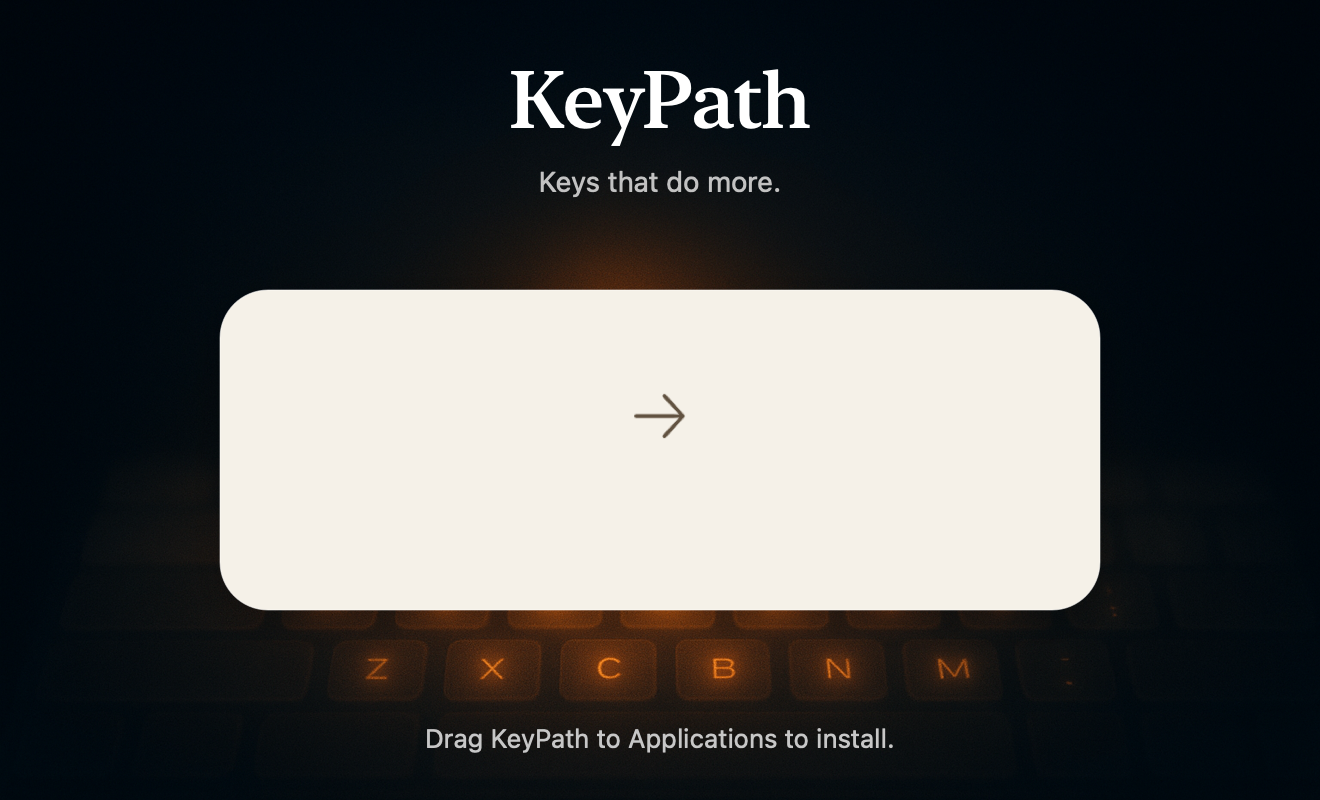
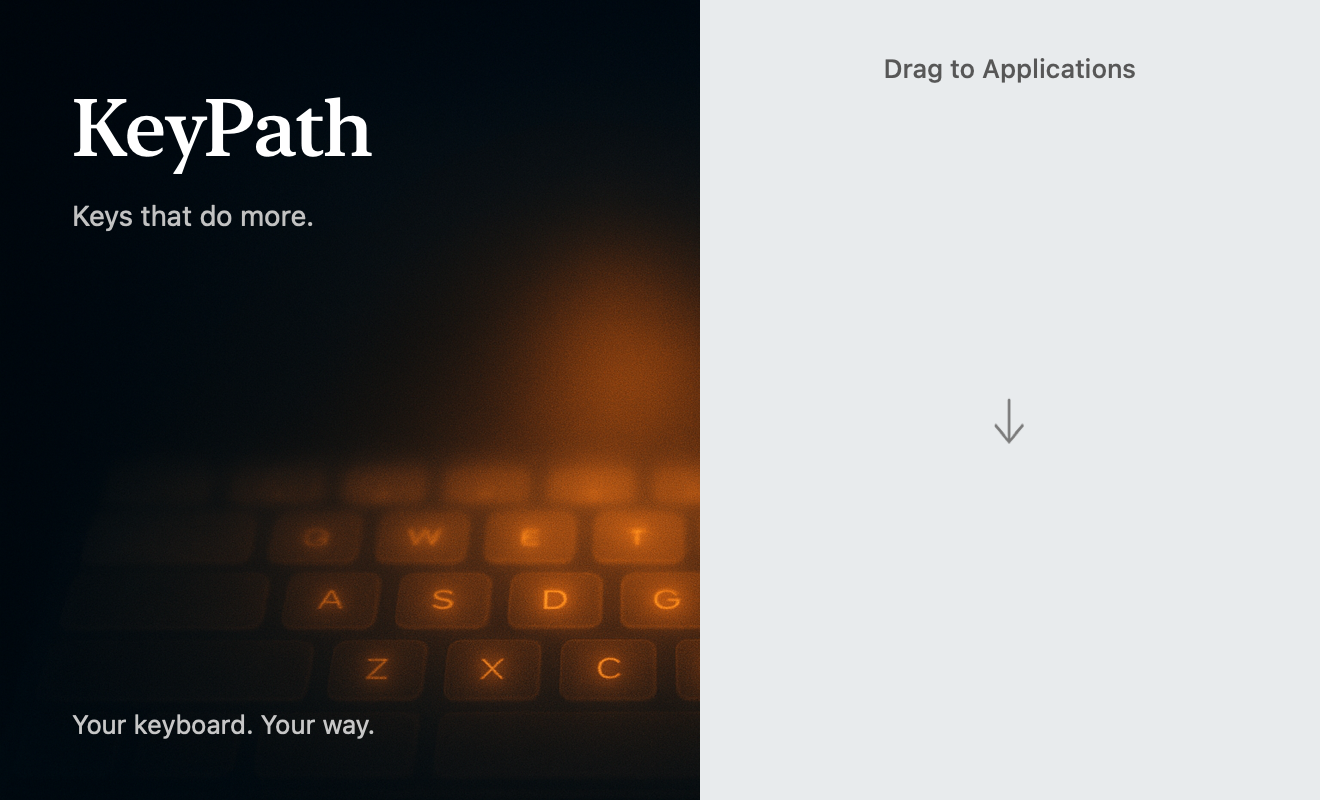
design: give installer artwork an unobstructed brand panel

diff --git a/dev-tools/dmg/render-background.swift b/dev-tools/dmg/render-background.swift
@@ -12,44 +12,39 @@ NSGraphicsContext.saveGraphicsState()
 NSGraphicsContext.current = NSGraphicsContext(bitmapImageRep: bitmap)
 let artwork = NSImage(contentsOf: directory.appendingPathComponent("dmg-bg-keyboard-legends.png"))!
 artwork.draw(in: NSRect(origin: .zero, size: size))
-// One shared installation surface supports the drag gesture and keeps
-// Finder's mandatory dark filenames readable, without button-like label pills.
-let stage = NSRect(x: 110, y: 400 - 145 - 160, width: 440, height: 160)
-let surface = NSBezierPath(roundedRect: stage, xRadius: 24, yRadius: 24)
-NSGraphicsContext.saveGraphicsState()
-let shadow = NSShadow()
-shadow.shadowColor = NSColor.black.withAlphaComponent(0.24)
-shadow.shadowBlurRadius = 22
-shadow.shadowOffset = NSSize(width: 0, height: -6)
-shadow.set()
-NSColor(red: 0.96, green: 0.945, blue: 0.91, alpha: 1).setFill()
-surface.fill()
-NSGraphicsContext.restoreGraphicsState()
-NSColor.white.withAlphaComponent(0.55).setStroke()
-surface.lineWidth = 0.5
-surface.stroke()
+// A full-height installation column keeps native Finder labels legible while
+// preserving the brand artwork as an unobstructed hero on the left.
+NSColor(red: 0.91, green: 0.92, blue: 0.93, alpha: 1).setFill()
+NSRect(x: 350, y: 0, width: 310, height: 400).fill()
 func label(_ text: String, y: CGFloat, height: CGFloat, font: NSFont, color: NSColor) {
     let paragraph = NSMutableParagraphStyle()
-    paragraph.alignment = .center
-    (text as NSString).draw(in: NSRect(x: 24, y: 400-y-height, width: 612, height: height),
+    paragraph.alignment = .left
+    (text as NSString).draw(in: NSRect(x: 36, y: 400-y-height, width: 290, height: height),
                            withAttributes: [.font: font, .foregroundColor: color, .paragraphStyle: paragraph])
 }
 let serif = NSFont.systemFont(ofSize: 40, weight: .medium).fontDescriptor.withDesign(.serif)!
-label("KeyPath", y: 26, height: 54, font: NSFont(descriptor: serif, size: 40)!, color: .white)
-label("Keys that do more.", y: 82, height: 24,
+label("KeyPath", y: 40, height: 54, font: NSFont(descriptor: serif, size: 40)!, color: .white)
+label("Keys that do more.", y: 99, height: 24,
       font: .systemFont(ofSize: 14, weight: .regular),
       color: NSColor(white: 0.76, alpha: 1))
-if let arrow = NSImage(systemSymbolName: "arrow.right", accessibilityDescription: nil)?
-    .withSymbolConfiguration(.init(pointSize: 26, weight: .light)) {
+if let arrow = NSImage(systemSymbolName: "arrow.down", accessibilityDescription: nil)?
+    .withSymbolConfiguration(.init(pointSize: 22, weight: .light)) {
     let tinted = NSImage(size: arrow.size)
     tinted.lockFocus()
-    NSColor(red: 0.38, green: 0.32, blue: 0.25, alpha: 1).setFill()
+    NSColor(white: 0.48, alpha: 1).setFill()
     NSRect(origin: .zero, size: arrow.size).fill()
     arrow.draw(at: .zero, from: .zero, operation: .destinationIn, fraction: 1)
     tinted.unlockFocus()
-    tinted.draw(in: NSRect(x: 314, y: 400-208-14, width: 32, height: 28))
+    tinted.draw(in: NSRect(x: 495, y: 400-210-14, width: 20, height: 28))
 }
-label("Drag KeyPath to Applications to install.", y: 361, height: 24,
+label("Your keyboard. Your way.", y: 354, height: 24,
       font: .systemFont(ofSize: 13, weight: .regular), color: NSColor(white: 0.78, alpha: 1))
+let instructionStyle = NSMutableParagraphStyle()
+instructionStyle.alignment = .center
+("Drag to Applications" as NSString).draw(
+    in: NSRect(x: 365, y: 352, width: 280, height: 22),
+    withAttributes: [.font: NSFont.systemFont(ofSize: 13, weight: .medium),
+                     .foregroundColor: NSColor(white: 0.34, alpha: 1),
+                     .paragraphStyle: instructionStyle])
 NSGraphicsContext.restoreGraphicsState()
 try bitmap.representation(using: .png, properties: [:])!.write(to: directory.appendingPathComponent("installer-branded@2x.png"))

diff --git a/dev-tools/dmg/dmgbuild-settings.py b/dev-tools/dmg/dmgbuild-settings.py
@@ -22,6 +22,6 @@ symlinks = {"Applications": "/Applications"}
 hide_extensions = []
 
 icon_locations = {
-    os.path.basename(APP_PATH): (205, 208),
-    "Applications": (455, 208),
+    os.path.basename(APP_PATH): (505, 112),
+    "Applications": (505, 288),
 }

diff --git a/docs/testing/driverless-release-signoff.md b/docs/testing/driverless-release-signoff.md
@@ -522,3 +522,16 @@ stapling/Gatekeeper passed, and source/remote SHA-256 matched on delivery to Air
 Downloads: `KeyPath-20261018-polished-installer.dmg`, hash
[1 lines of base64/hex data omitted]
 No app reinstall was performed for this presentation-only change.
+
+### Installer design revision — 2026-10-18
+
+User rejected the cream card layout. Replaced it with a split composition: historical
+KeyPath wordmark, tagline and amber keyboard on the left; native app and Applications
+icons in a vertical drag path on a full-height silver column on the right.
+Actual Finder preview: `/Users/malpern/keypath-review-evidence/20261018-installer-split/preview.png`.
+App unchanged from tested held-key build. Packaged strict signature, image integrity,
+Apple notarization, stapling and Gatekeeper passed. Submission
+`499d2a03-7142-4dca-8d0c-6b25f389d63b`.
+Delivered to Air Downloads as `KeyPath-20261018-brand-layout.dmg`, remote hash verified:
[1 lines of base64/hex data omitted]
+Presentation-only change; outstanding physical held-key acceptance remains unchanged.

diff --git a/dev-tools/dmg/README.md b/dev-tools/dmg/README.md
@@ -14,9 +14,9 @@ swift dev-tools/dmg/render-background.swift dev-tools/dmg
 
 Artwork is 1320×800 pixels representing 660×400 points. Packaging converts it to
 144-DPI TIFF so Finder uses the intended logical size. Native icon centers are
-(205, 208) and (455, 208), with 96-point icons and 13-point native labels. A
-single shared installation surface preserves filename contrast without separate
-button-like plates; no duplicate filenames are baked into the artwork. Supporting
+(505, 112) and (505, 288), with 96-point icons and 13-point native labels. A
+full-height silver installation column preserves native filename contrast. The
+dark brand panel and amber keyboard remain unobstructed on the left; no duplicate filenames are baked into the artwork. Supporting
 type is regular system sans serif, while the historical serif wordmark remains.
 
 Finder can override hidden tab/path/status bars with a user's saved preferences.
